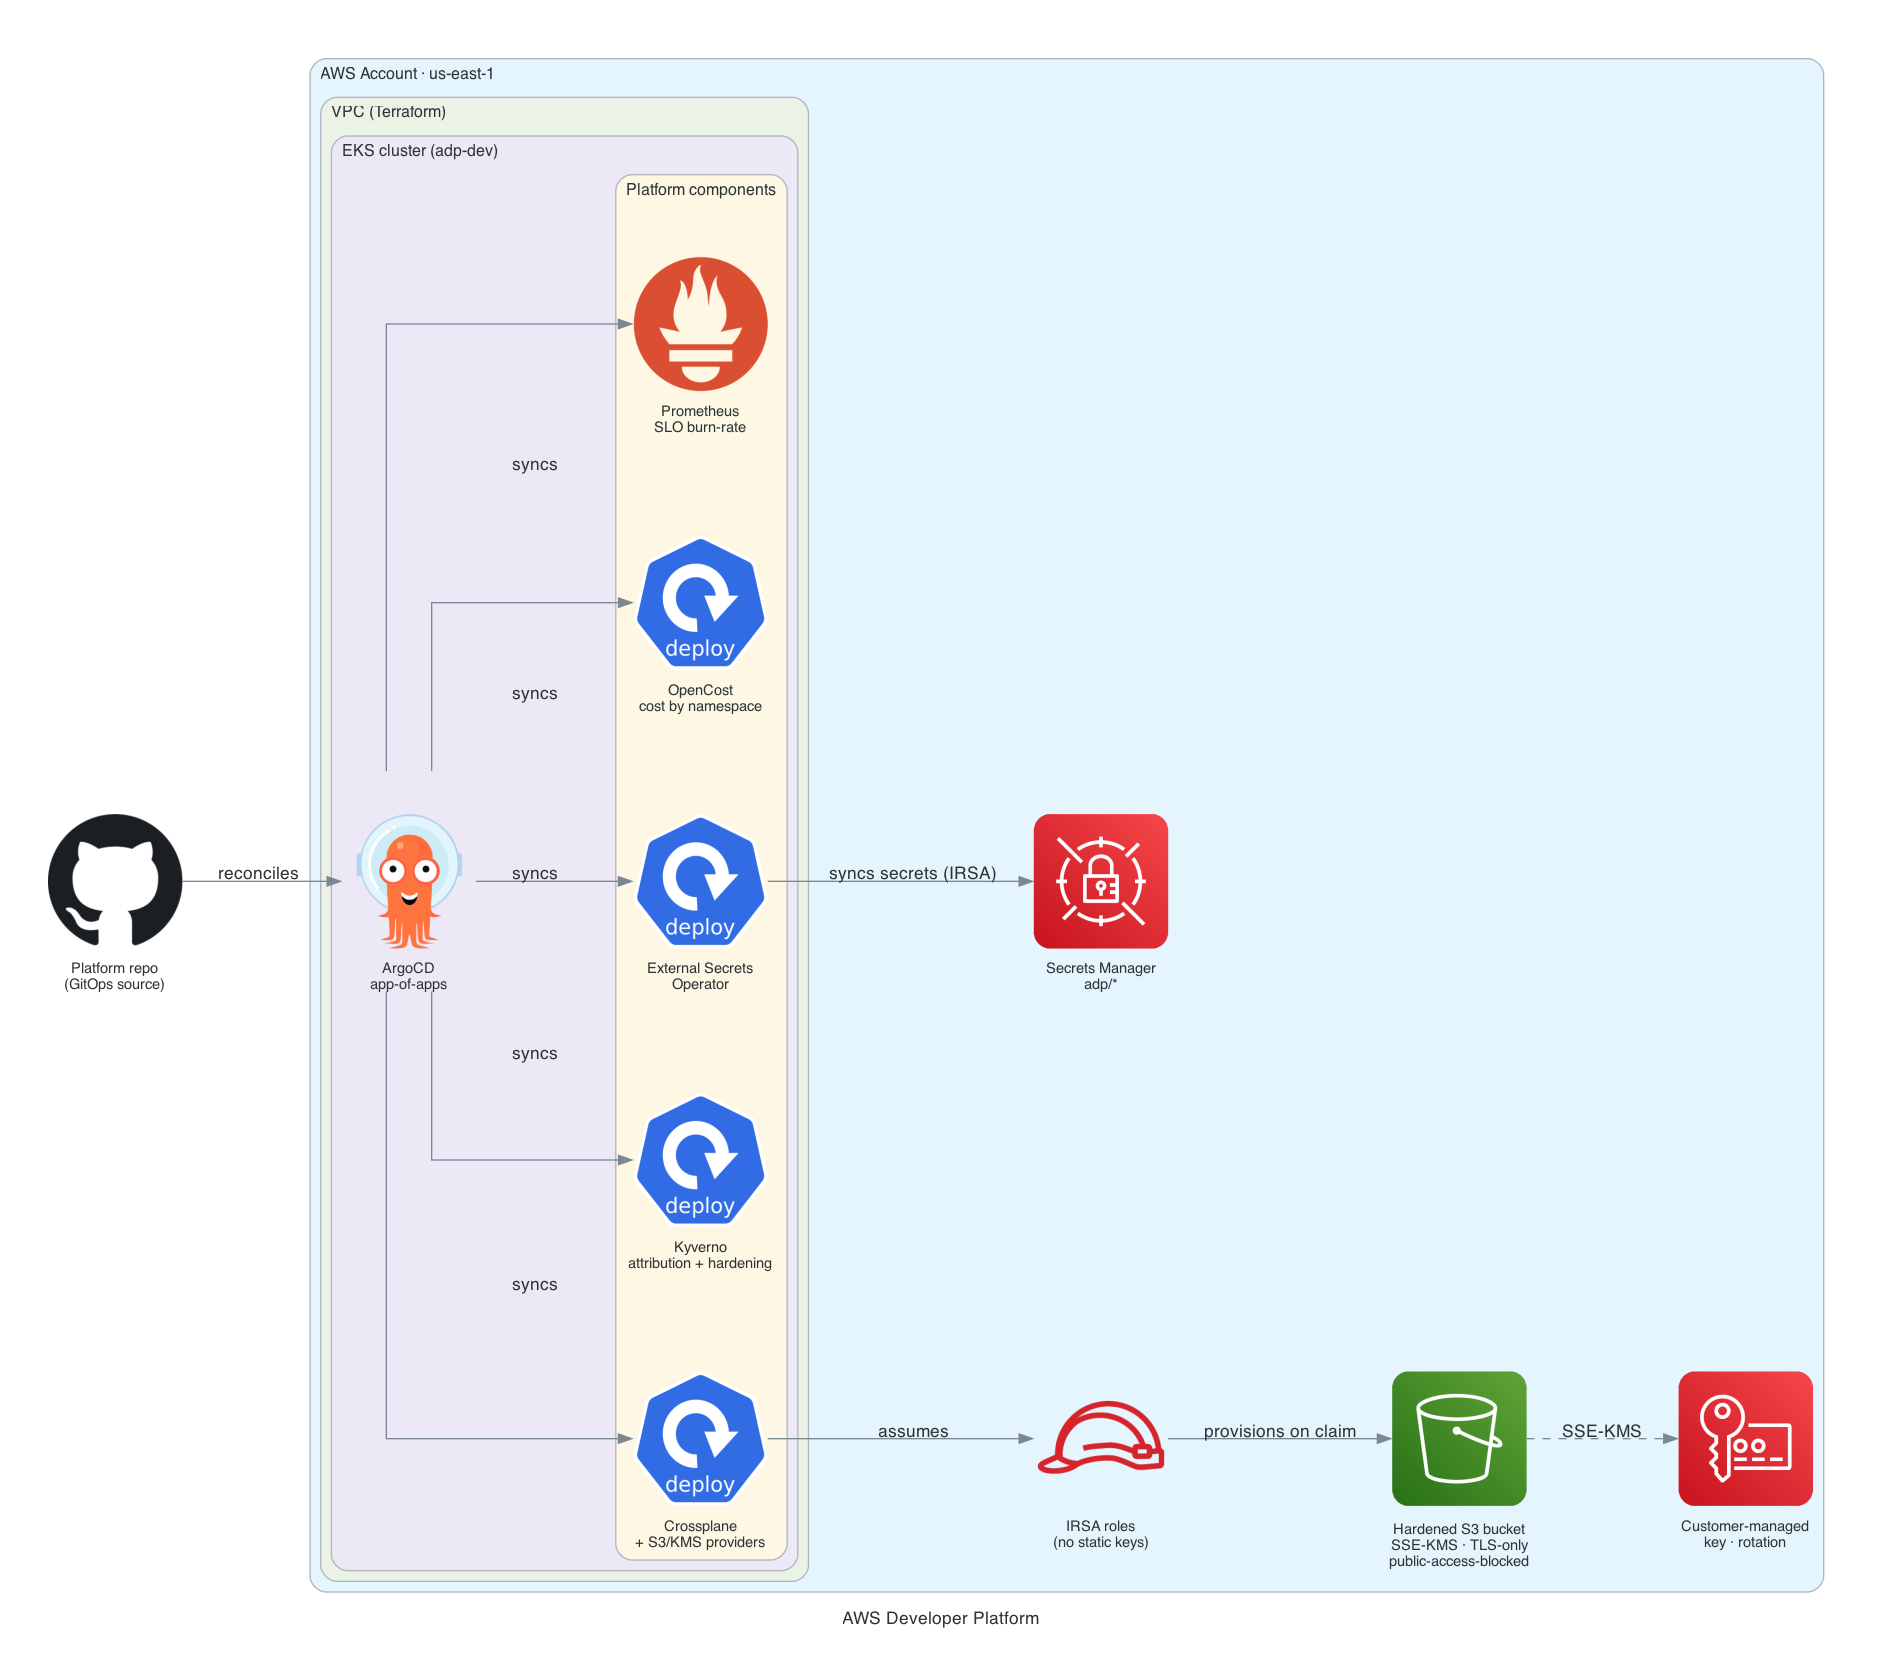
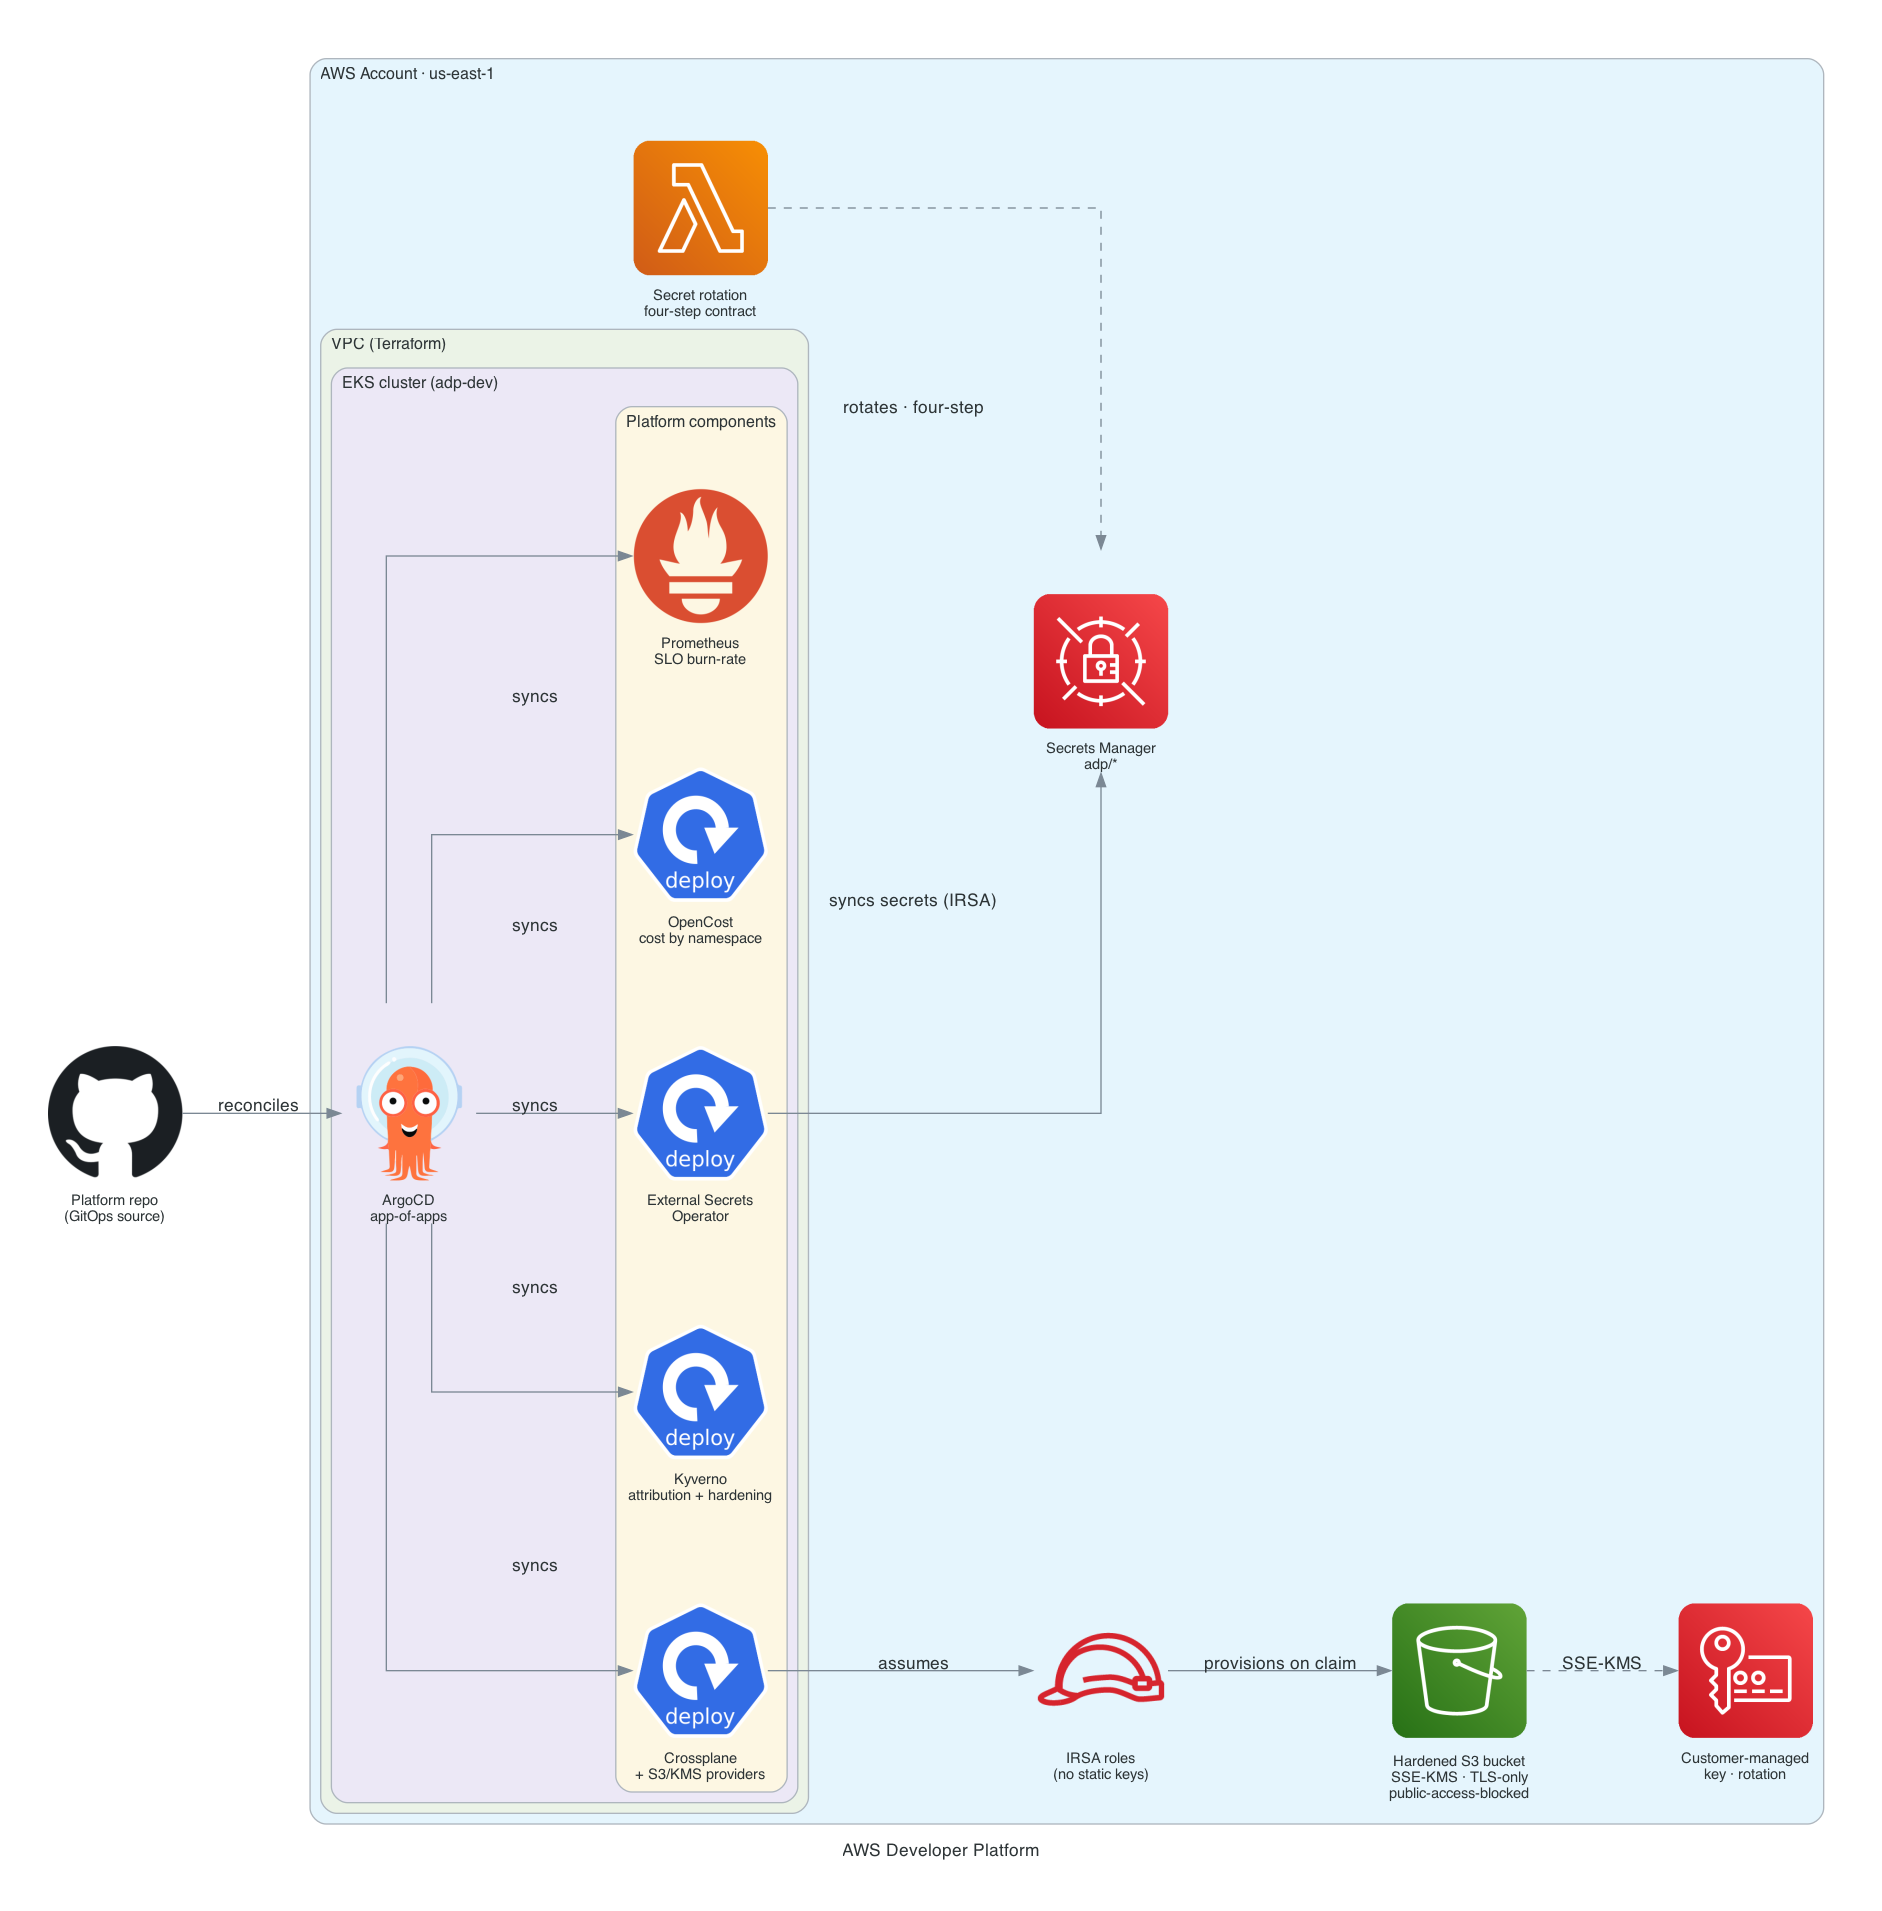
Add secret rotation to close the ESO distribution loop
The platform distributed secrets via External Secrets but never rotated
them, so the README's rotation claim was unbacked. This wires in real
rotation: a Python Lambda implementing the AWS four-step contract
(create/set/test/finish) on a separate, IAM-fenced role that is the only
identity permitted to write a secret value, driven by Secrets Manager on
a schedule. Distribution (read-only ESO) and rotation (write) never share
a credential.

- terraform/secret-rotation.tf + rotation/rotation.py
- README: split the distribution/rotation controls, honest rotation row
- diagram: rotation Lambda rotating the secret (official AWS icons)
- regenerate .checkov.baseline (also clears the pre-existing demo-secret
  and crossplane_kms findings that had left main red since 9/18)
- archive provider for packaging; Lambda hardened (tracing, reserved
  concurrency, 1yr log retention)

diff --git a/terraform/rotation/rotation.py b/terraform/rotation/rotation.py
@@ -1,0 +1,107 @@
+"""Secrets Manager rotation Lambda for the platform's paved-road secrets.
+
+External Secrets distributes a secret into the cluster; this closes the other
+half of the loop by rotating it on a schedule. Secrets Manager invokes this
+function four times per rotation, once per Step, passing a ClientRequestToken
+that names the new version:
+
+  createSecret  stage a new AWSPENDING version with a fresh password
+  setSecret     change the credential in the backing service
+  testSecret    prove the new credential works
+  finishSecret  promote AWSPENDING to AWSCURRENT, demote old to AWSPREVIOUS
+
+The demo secret is a JSON {"username", "password"} with no external database
+behind it, so createSecret rotates the password and keeps the username,
+setSecret is a no-op, and testSecret checks the pending value parses and carries
+a password. A secret backed by a real datastore would do the credential change
+in setSecret; the four-step contract and the staging moves stay identical.
+"""
+
+import json
+import logging
+
+import boto3
+
+log = logging.getLogger()
+log.setLevel(logging.INFO)
+
+PENDING = "AWSPENDING"
+CURRENT = "AWSCURRENT"
+PASSWORD_LENGTH = 32
+
+
+def _new_pending_value(client, current_string):
+    try:
+        current = json.loads(current_string) if current_string else {}
+    except json.JSONDecodeError:
+        current = {}
+    new_password = client.get_random_password(
+        PasswordLength=PASSWORD_LENGTH, ExcludePunctuation=True)["RandomPassword"]
+    current["password"] = new_password
+    return json.dumps(current)
+
+
+def create_secret(client, arn, token):
+    stages = client.describe_secret(SecretId=arn).get("VersionIdsToStages", {})
+    if token in stages and PENDING in stages[token]:
+        log.info("createSecret: AWSPENDING already staged for %s", token)
+        return
+    current = client.get_secret_value(SecretId=arn, VersionStage=CURRENT)
+    pending = _new_pending_value(client, current.get("SecretString"))
+    client.put_secret_value(
+        SecretId=arn, ClientRequestToken=token,
+        SecretString=pending, VersionStages=[PENDING])
+    log.info("createSecret: staged AWSPENDING version %s", token)
+
+
+def set_secret(client, arn, token):
+    # No external datastore behind the demo secret. A DB-backed secret would
+    # apply the pending password to the service here before testSecret runs.
+    log.info("setSecret: no external service to update for %s", arn)
+
+
+def test_secret(client, arn, token):
+    pending = client.get_secret_value(
+        SecretId=arn, VersionId=token, VersionStage=PENDING)
+    parsed = json.loads(pending["SecretString"])
+    if not parsed.get("password"):
+        raise ValueError("pending secret has no password; refusing to finish")
+    log.info("testSecret: pending value parses and carries a password")
+
+
+def finish_secret(client, arn, token):
+    stages = client.describe_secret(SecretId=arn).get("VersionIdsToStages", {})
+    current_version = next(
+        (v for v, labels in stages.items() if CURRENT in labels), None)
+    if current_version == token:
+        log.info("finishSecret: %s already AWSCURRENT", token)
+        return
+    client.update_secret_version_stage(
+        SecretId=arn, VersionStage=CURRENT,
+        MoveToVersionId=token, RemoveFromVersionId=current_version)
+    log.info("finishSecret: promoted %s to AWSCURRENT (was %s)",
+             token, current_version)
+
+
+_STEPS = {
+    "createSecret": create_secret,
+    "setSecret": set_secret,
+    "testSecret": test_secret,
+    "finishSecret": finish_secret,
+}
+
+
+def handler(event, context):
+    arn = event["SecretId"]
+    token = event["ClientRequestToken"]
+    step = event["Step"]
+    log.info("rotation step %s for %s", step, arn)
+    client = boto3.client("secretsmanager")
+    meta = client.describe_secret(SecretId=arn)
+    if not meta.get("RotationEnabled", False):
+        log.warning("rotation not enabled on %s", arn)
+    handler_fn = _STEPS.get(step)
+    if not handler_fn:
+        raise ValueError(f"unknown rotation step {step!r}")
+    handler_fn(client, arn, token)
+    return {"status": "ok", "step": step}

diff --git a/diagram.py b/diagram.py
@@ -1,5 +1,5 @@
 from diagrams import Diagram, Cluster, Edge
-from diagrams.aws.compute import EKS
+from diagrams.aws.compute import EKS, Lambda
 from diagrams.aws.storage import S3
 from diagrams.aws.security import IAMRole, KMS, SecretsManager
 from diagrams.aws.network import VPC
@@ -39,6 +39,7 @@ with Diagram(
         kms = KMS("Customer-managed\nkey · rotation")
         bucket = S3("Hardened S3 bucket\nSSE-KMS · TLS-only\npublic-access-blocked")
         secrets = SecretsManager("Secrets Manager\nadp/*")
+        rotation = Lambda("Secret rotation\nfour-step contract")
 
     repo >> Edge(label="reconciles") >> argo
     argo >> Edge(label="syncs") >> [crossplane, kyverno, eso, opencost, observ]
@@ -46,3 +47,4 @@ with Diagram(
     irsa >> Edge(label="provisions on claim") >> bucket
     bucket >> Edge(label="SSE-KMS", style="dashed") >> kms
     eso >> Edge(label="syncs secrets (IRSA)") >> secrets
+    rotation >> Edge(label="rotates · four-step", style="dashed") >> secrets

diff --git a/README.md b/README.md
@@ -16,6 +16,7 @@ An Internal Developer Platform on EKS that gives application teams a paved road:
 | Guardrails | **Kyverno** | Policy-as-code admission control: attribution, hardening, image signing |
 | FinOps | **finops.rego gate** + **OpenCost** | CostCenter enforced in CI and at admission; cluster spend attributed by the same key |
 | Secret distribution | **External Secrets Operator** + Secrets Manager | Secrets synced from AWS Secrets Manager over IRSA; nothing plaintext in Git |
+| Secret rotation | **Rotation Lambda** (four-step contract) | Secrets Manager drives rotation on a schedule; a separate IAM-fenced role is the only identity allowed to write a secret value |
 | Developer portal | **Backstage** | Catalog plus a golden-path microservice template |
 
 ## The self-service flow
@@ -136,7 +137,8 @@ The platform's controls, and the audit expectations they answer, are the same st
 | Runtime hardening | Kyverno: non-root, no priv-esc, limits, no `:latest` | CIS Kubernetes, SOC 2 CC6/CC7 |
 | Supply-chain integrity | Kyverno cosign image verification (Audit) | SOC 2 CC8, SLSA provenance |
 | Change control | GitOps: Git is the source of truth, ArgoCD reconciles | SOC 2 CC8.1, GxP / 21 CFR Part 11 |
-| Secret distribution | ESO syncs from Secrets Manager over IRSA; no secrets in Git | SOC 2 CC6.1, secrets rotation + least privilege |
+| Secret distribution | ESO syncs from Secrets Manager over IRSA; no secrets in Git | SOC 2 CC6.1, least privilege |
+| Secret rotation | Rotation Lambda drives the four-step contract on schedule; a separate IAM-fenced role is the only secret writer | SOC 2 CC6.1, NIST 800-53 IA-5 |
 | Incident response | burn-rate pages routed to responder, human in the loop | operational resilience, SOC 2 CC7 |
 
 ## Tech Stack
@@ -148,4 +150,5 @@ The platform's controls, and the audit expectations they answer, are the same st
 - **Kyverno** 1.13 policy-as-code: attribution, baseline hardening, cosign image verification
 - **FinOps** shared `finops.rego` + Infracost gate (via `platform-guardrails`), **OpenCost** for cluster cost attribution
 - **External Secrets Operator** 0.10 syncing AWS Secrets Manager over IRSA (ClusterSecretStore)
+- **Secret rotation** via a Python Lambda implementing the AWS four-step contract (create/set/test/finish), on a separate IAM-fenced role that is the only identity permitted to write a secret value
 - **Backstage** scaffolder golden-path template (born compliant: labels, limits, SLO, runbook)
